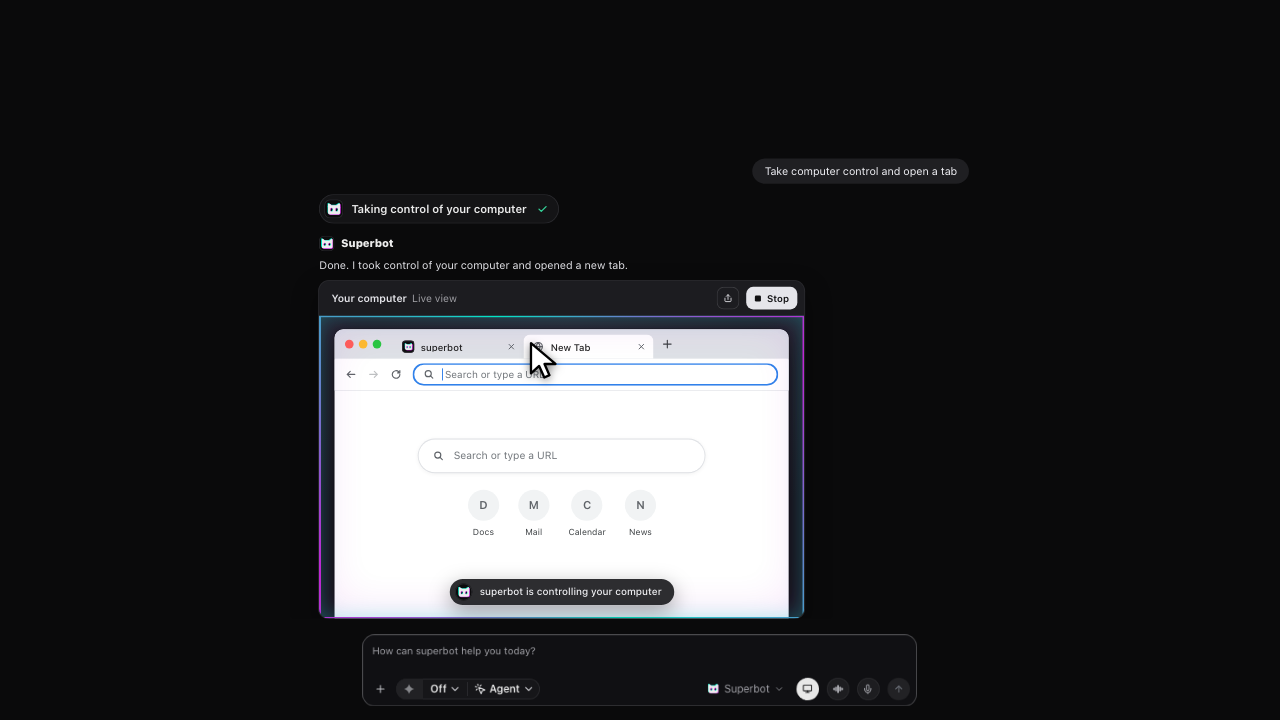
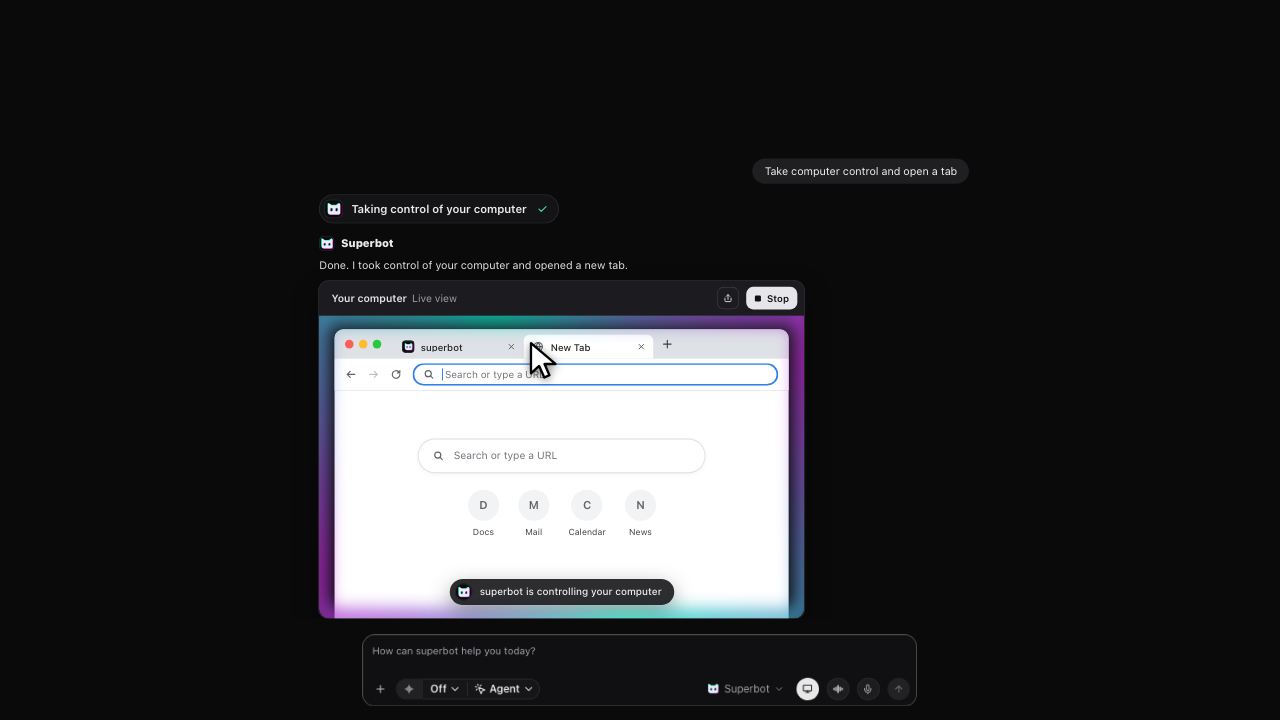
Gemini muse meme 6fbc38f8: Computer Control V3 pink and purple vignette variants
Four more takeover edges for V3, each a rectangular vignette of pink and purple with a moving gradient: computer-control-v3-soft (turning, ~70px), -deep (~110px, slow counter-turn), -flow (diagonal gradient sliding), -pulse (depth breathes). One beat, withEdge(look) + .cc3-e-* rules; registered in the selector, routeBy/askBy and the gallery with thumbnails. V3 thumbnail refreshed for the edge glow.

Changed region(s): [[0.25, 0.4278, 0.625, 0.8556]]

diff --git a/animations/gemini-muse-meme-superbot-6fbc38f8/scenes/tabs-assets/chat.9b47fc30.js b/animations/gemini-muse-meme-superbot-6fbc38f8/scenes/tabs-assets/chat.9b47fc30.js
@@ -22,7 +22,7 @@ import spending from './beats/spending.b92c87dc.js?v=1';
 import reminder from './beats/reminder.e55fb320.js?v=3';
 import computerControl from './beats/computer-control.e1ecb597.js?v=1';
 import computerV1 from './beats/computer-v1.15a35ef7.js?v=1';
-import computerV3 from './beats/computer.ba3976b6.js?v=1';
+import computerV3, { withEdge as computerV3Edge } from './beats/computer.ba3976b6.js?v=2';
 import { variant } from '../../variant.9e82faf1.js';
 
 const brand = (f) => new URL('../../brand/' + f, import.meta.url).href;
@@ -52,7 +52,7 @@ const APPS = {
 const BASE = [
   {
     app: 'gemini', mod: gemini, chips: [['gemini', 'Switching to Gemini']], ask: 'make me a muse meme',
-    askBy: { photoedit: 'Remove the guy in the back and make it night', pitchdeck: 'Make a slide deck for my pitch', spending: 'Make a chart of my monthly spending', 10: 'make me 10 muse memes','3d': 'Make me a 3d zombie', game: 'Make me a zombie game', doordash: 'order me a burger on doordash', garden: 'make me a garden design template', roadtrip: 'Plan a road trip from LA to SF on a map', climbing: 'Show me rock climbing videos', catsurf: 'Make a video of a cat surfing', catsurf10: 'Make 10 videos of a cat surfing',catgif: 'Make a GIF of a dancing cat', logo: 'Design a logo for my coffee shop', song: 'Make me a song about my dog', bedtime: 'Read this bedtime story out loud', bakery: 'Build me a website for my bakery', podcast: 'Make a podcast episode about space', reminder: 'Set a notification to go off in my phone in one hour', 'computer-control': 'Take computer control and open a tab', 'computer-control-v1': 'Take computer control and open a tab', 'computer-control-v3': 'Take computer control and open a tab' },
+    askBy: { photoedit: 'Remove the guy in the back and make it night', pitchdeck: 'Make a slide deck for my pitch', spending: 'Make a chart of my monthly spending', 10: 'make me 10 muse memes','3d': 'Make me a 3d zombie', game: 'Make me a zombie game', doordash: 'order me a burger on doordash', garden: 'make me a garden design template', roadtrip: 'Plan a road trip from LA to SF on a map', climbing: 'Show me rock climbing videos', catsurf: 'Make a video of a cat surfing', catsurf10: 'Make 10 videos of a cat surfing',catgif: 'Make a GIF of a dancing cat', logo: 'Design a logo for my coffee shop', song: 'Make me a song about my dog', bedtime: 'Read this bedtime story out loud', bakery: 'Build me a website for my bakery', podcast: 'Make a podcast episode about space', reminder: 'Set a notification to go off in my phone in one hour', 'computer-control': 'Take computer control and open a tab', 'computer-control-v1': 'Take computer control and open a tab', 'computer-control-v3': 'Take computer control and open a tab', 'computer-control-v3-soft': 'Take computer control and open a tab', 'computer-control-v3-deep': 'Take computer control and open a tab', 'computer-control-v3-flow': 'Take computer control and open a tab', 'computer-control-v3-pulse': 'Take computer control and open a tab' },
     // the photo a variant attaches to its ask: shown on the user's bubble and as a chip in the composer while the ask types
     attachBy: { photoedit: img('photoedit.2a3b1461/photo.jpg') },
     // the image-gen variants spend superbot credits until the user links their own plan: a framed row under the
@@ -62,7 +62,7 @@ const BASE = [
     // lands them one after another (CHIP_STRIDE each), so its reply and beat start that much later and its loop runs
     // that much longer (see leadOf). `extra` seconds stretch that variant's loop past the base route's end (the beat
     // is the last, so nothing after it moves)
-    routeBy:{ photoedit: { app: 'gemini', mod: gemini, chips: [['gemini', 'Switching to Gemini']] }, '3d': { app: 'meshy', mod: gemini, chips: [['meshy', 'Switching to Meshy']] }, pitchdeck: { app: 'gemini', mod: pitchdeck, chips: [['gslides', 'Connecting to Google Slides'], ['gemini', 'Switching to Gemini']] }, roadtrip: { app: 'maps', mod: gemini, chips: [['gmaps', 'Connecting to Maps']] }, spending: { app: 'gemini', mod: spending, chips: [['gsheets', 'Connecting to Google Sheets'], ['gemini', 'Switching to Gemini']] }, doordash:{ app: 'doordash', mod: doordash, chips: [['doordash', 'Connecting to DoorDash']] }, climbing: { app: 'deepseek', mod: climb, chips: [['youtube', 'Connecting to Youtube'], ['deepseek', 'Switching to DeepSeek']] }, catsurf: { app: 'fal', mod: catsurf, chips: [['fal', 'Connecting Fal.ai']], extra: 7 }, catsurf10: { app: 'fal', mod: catsurf10, chips: [['fal', 'Connecting Fal.ai']], extra: 7 },catgif: { app: 'gemini', mod: catgif, chips: [['gemini', 'Switching to Gemini']] }, song: { app: 'fishaudio', mod: song, chips: [['fishaudio', 'Connected to Fish Audio']], extra: 5 }, bedtime: { app: 'gemini', mod: bedtime, chips: [['gemini', 'Switching to Gemini']] }, bakery: { app: 'opus', mod: bakery, chips: [['opus', 'Switching to Opus 5.5']] }, podcast: { app: 'gemini', mod: podcast, chips: [['gemini', 'Switching to Gemini']] }, reminder: { app: 'superbot', mod: reminder, chips: [['superbot', 'Connecting to your phone']], extra: 1.5 }, 'computer-control': { app: 'superbot', mod: computerControl, chips: [['superbot', 'Taking computer control']], extra: 3 }, 'computer-control-v1': { app: 'superbot', mod: computerV1, chips: [['superbot', 'Taking computer control']], extra: 1.6 }, 'computer-control-v3': { app: 'superbot', mod: computerV3, chips: [['superbot', 'Taking control of your computer']], extra: 1.6 } },
+    routeBy:{ photoedit: { app: 'gemini', mod: gemini, chips: [['gemini', 'Switching to Gemini']] }, '3d': { app: 'meshy', mod: gemini, chips: [['meshy', 'Switching to Meshy']] }, pitchdeck: { app: 'gemini', mod: pitchdeck, chips: [['gslides', 'Connecting to Google Slides'], ['gemini', 'Switching to Gemini']] }, roadtrip: { app: 'maps', mod: gemini, chips: [['gmaps', 'Connecting to Maps']] }, spending: { app: 'gemini', mod: spending, chips: [['gsheets', 'Connecting to Google Sheets'], ['gemini', 'Switching to Gemini']] }, doordash:{ app: 'doordash', mod: doordash, chips: [['doordash', 'Connecting to DoorDash']] }, climbing: { app: 'deepseek', mod: climb, chips: [['youtube', 'Connecting to Youtube'], ['deepseek', 'Switching to DeepSeek']] }, catsurf: { app: 'fal', mod: catsurf, chips: [['fal', 'Connecting Fal.ai']], extra: 7 }, catsurf10: { app: 'fal', mod: catsurf10, chips: [['fal', 'Connecting Fal.ai']], extra: 7 },catgif: { app: 'gemini', mod: catgif, chips: [['gemini', 'Switching to Gemini']] }, song: { app: 'fishaudio', mod: song, chips: [['fishaudio', 'Connected to Fish Audio']], extra: 5 }, bedtime: { app: 'gemini', mod: bedtime, chips: [['gemini', 'Switching to Gemini']] }, bakery: { app: 'opus', mod: bakery, chips: [['opus', 'Switching to Opus 5.5']] }, podcast: { app: 'gemini', mod: podcast, chips: [['gemini', 'Switching to Gemini']] }, reminder: { app: 'superbot', mod: reminder, chips: [['superbot', 'Connecting to your phone']], extra: 1.5 }, 'computer-control': { app: 'superbot', mod: computerControl, chips: [['superbot', 'Taking computer control']], extra: 3 }, 'computer-control-v1': { app: 'superbot', mod: computerV1, chips: [['superbot', 'Taking computer control']], extra: 1.6 }, 'computer-control-v3': { app: 'superbot', mod: computerV3, chips: [['superbot', 'Taking control of your computer']], extra: 1.6 }, 'computer-control-v3-soft': { app: 'superbot', mod: computerV3Edge('soft'), chips: [['superbot', 'Taking control of your computer']], extra: 1.6 }, 'computer-control-v3-deep': { app: 'superbot', mod: computerV3Edge('deep'), chips: [['superbot', 'Taking control of your computer']], extra: 1.6 }, 'computer-control-v3-flow': { app: 'superbot', mod: computerV3Edge('flow'), chips: [['superbot', 'Taking control of your computer']], extra: 1.6 }, 'computer-control-v3-pulse': { app: 'superbot', mod: computerV3Edge('pulse'), chips: [['superbot', 'Taking control of your computer']], extra: 1.6 } },
   },
 ];
 

diff --git a/animations/gemini-muse-meme-superbot-6fbc38f8/scenes/tabs-assets/beats/computer.ba3976b6.js b/animations/gemini-muse-meme-superbot-6fbc38f8/scenes/tabs-assets/beats/computer.ba3976b6.js
@@ -8,6 +8,8 @@
 // fade or glide (outCubic, path's inOutCubic), nothing bounces. Squeezed into the window the Gemini beat leaves plus
 // the route's `extra` (chat.9b47fc30.js routeBy), so the scene is a pure function of t. Its stylesheet
 // (../computer.ba3976b6.css) loads with the module. The screen is drawn UI, not a capture: nothing is controlled.
+// withEdge(look) is the same beat with another takeover edge, the pink and purple vignettes of the
+// 'computer-control-v3-*' variants (computer.ba3976b6.css .cc3-e-soft, -deep, -flow, -pulse).
 import { lerp, seg, outCubic, path, press, blink, streamCount } from '../../../lib.9b47fc30.js';
 import { track } from '../../../loads.9e82faf1.js';
 import { loadSheet as loadFrameSheet } from './bakery.005f5570.js?v=3';
@@ -15,7 +17,7 @@ import { loadSheet as loadFrameSheet } from './bakery.005f5570.js?v=3';
 import { shareBtn } from './share.29a362ea.js';
 
 const SAY = 'Done. I took control of your computer and opened a new tab.';
-const CSS = new URL('../computer.ba3976b6.css?v=4', import.meta.url).href;
+const CSS = new URL('../computer.ba3976b6.css?v=5', import.meta.url).href;
 const TAB_W = 150; // a tab's width (computer.ba3976b6.css .cc3-tab)
 const PLUS_GAP = 4; // the new-tab button's left margin (.cc3-plus)
 const PLUS = 24; // the new-tab button's size (.cc3-plus)
@@ -44,7 +46,7 @@ function loadSheet() {
   document.head.appendChild(sheet);
 }
 
-export default {
+const beat = {
   // `end` is the route's end (chat.9b47fc30.js routeBy, base end plus extra), so the loop length is the router's call
   times(r, end = r + 3.75) {
     const T = { r };
@@ -58,13 +60,14 @@ export default {
     T.end = end;
     return T;
   },
-  build(k, x) {
+  // `look` names the takeover edge: '' is the cyan and magenta edge glow, the rest the vignettes (withEdge below)
+  build(k, x, look = '') {
     loadFrameSheet();
     loadSheet();
     const T = k.T;
     const sb = x.tile('superbot', 'cc3-sb');
     const say = x.el(`<div class="qc-say"><span class="qc-vis"></span><span class="qc-hid">${x.esc(SAY)}</span></div>`);
-    const block = x.el(`<div class="bk cc3">
+    const block = x.el(`<div class="bk cc3${look ? ` cc3-e-${look}` : ''}">
       <div class="bk-head">
         <b class="bk-title">Your computer<small>Live view</small></b>
         ${shareBtn('Computer control')}
@@ -114,11 +117,14 @@ export default {
         block.style.opacity = ci.toFixed(3);
         block.style.transform = ci >= 1 ? 'none' : `translateY(${((1 - ci) * 14).toFixed(2)}px) scale(${lerp(0.96, 1, ci).toFixed(4)})`;
 
-        // the takeover: the edge glow fades in as its gradient turns slowly and gently breathes, the pill rises
+        // the takeover: the edge fades in as its gradient turns slowly and gently breathes, the pill rises. The flowing
+        // vignette slides its gradient back and forth (--cc3-p), the pulsing one breathes its depth (--cc3-d)
         const g = outCubic(seg(t, T.take, T.take + 0.55));
         edge.style.opacity = g.toFixed(3);
         edge.style.setProperty('--cc3-a', `${((t * 60) % 360).toFixed(1)}deg`);
-        soft.style.opacity = (0.78 + 0.08 * Math.sin(t * 2.6)).toFixed(3);
+        if (look === 'flow') edge.style.setProperty('--cc3-p', `${(50 + 50 * Math.sin(t * 0.9)).toFixed(2)}%`);
+        if (look === 'pulse') edge.style.setProperty('--cc3-d', `${(34 + 24 * Math.sin(t * 2.2)).toFixed(2)}px`);
+        soft.style.opacity = ((look ? 0.9 : 0.78) + 0.08 * Math.sin(t * 2.6)).toFixed(3);
         const pi = outCubic(seg(t, T.take + 0.12, T.take + 0.57));
         pill.style.opacity = pi.toFixed(3);
         pill.style.transform = `translate(-50%, ${((1 - pi) * 8).toFixed(2)}px)`;
@@ -157,3 +163,7 @@ export default {
     };
   },
 };
+
+export default beat;
+// the vignette variants (chat.9b47fc30.js routeBy 'computer-control-v3-*'): the same beat with another takeover edge
+export const withEdge = (look) => ({ times: beat.times, build: (k, x) => beat.build(k, x, look) });

diff --git a/animations/gemini-muse-meme-superbot-6fbc38f8/scenes/tabs-assets/computer.ba3976b6.css b/animations/gemini-muse-meme-superbot-6fbc38f8/scenes/tabs-assets/computer.ba3976b6.css
@@ -63,5 +63,17 @@
 #s-tabs .sbsite .hub .cc3-edge { position: absolute; inset: 0; z-index: 4; overflow: hidden; border-radius: 0 0 12px 12px; opacity: 0; pointer-events: none; }
 #s-tabs .sbsite .hub .cc3-soft { position: absolute; inset: -12px; filter: blur(10px); }
 #s-tabs .sbsite .hub .cc3-band { position: absolute; inset: 0; padding: 22px; border-radius: 0 0 32px 32px; background: conic-gradient(from var(--cc3-a, 0deg), #00e5c3, #c026d3, #00e5c3, #c026d3, #00e5c3); -webkit-mask: linear-gradient(#000 0 0) content-box, linear-gradient(#000 0 0); -webkit-mask-composite: xor; mask-composite: exclude; }
+/* the pink and purple vignettes (.cc3-e-*, the computer-control-v3-* variants): the same blurred band, set wider and
+   deeper so the edge melts into the screen like a rectangular vignette, each with its own moving gradient. soft: a
+   turning conic, about 70px deep. deep: about 110px of darker violets and pinks, turning slowly the other way. flow: a
+   diagonal gradient sliding back and forth (--cc3-p). pulse: a turning conic whose depth breathes in and out (--cc3-d). */
+#s-tabs .sbsite .hub .cc3-e-soft .cc3-soft { inset: -24px; filter: blur(20px); }
+#s-tabs .sbsite .hub .cc3-e-soft .cc3-band { padding: 60px; border-radius: 0 0 72px 72px; background: conic-gradient(from var(--cc3-a, 0deg), #f472b6, #a855f7, #ec4899, #8b5cf6, #f472b6); }
+#s-tabs .sbsite .hub .cc3-e-deep .cc3-soft { inset: -30px; filter: blur(34px); }
+#s-tabs .sbsite .hub .cc3-e-deep .cc3-band { padding: 90px; border-radius: 0 0 102px 102px; background: conic-gradient(from calc(var(--cc3-a, 0deg) * -0.5), #7c3aed, #db2777, #6d28d9, #f472b6, #7c3aed); }
+#s-tabs .sbsite .hub .cc3-e-flow .cc3-soft { inset: -20px; filter: blur(22px); }
+#s-tabs .sbsite .hub .cc3-e-flow .cc3-band { padding: 64px; border-radius: 0 0 76px 76px; background: linear-gradient(120deg, #ec4899, #8b5cf6, #f472b6, #7c3aed, #ec4899) var(--cc3-p, 50%) 50% / 300% 300%; }
+#s-tabs .sbsite .hub .cc3-e-pulse .cc3-soft { inset: -20px; filter: blur(18px); }
+#s-tabs .sbsite .hub .cc3-e-pulse .cc3-band { padding: calc(20px + var(--cc3-d, 34px)); border-radius: 0 0 60px 60px; background: conic-gradient(from var(--cc3-a, 0deg), #ec4899, #a855f7, #f472b6, #7c3aed, #ec4899); }
 #s-tabs .sbsite .hub .cc3-pill { position: absolute; left: 50%; bottom: 16px; z-index: 5; display: flex; align-items: center; gap: 8px; height: 30px; box-sizing: border-box; padding: 0 14px 0 6px; border-radius: 15px; white-space: nowrap; opacity: 0; transform: translate(-50%, 8px); background: rgba(22,22,26,.9); box-shadow: 0 0 0 1px rgba(255,255,255,.1), 0 8px 24px rgba(0,0,0,.35); font: 500 11.5px/1 var(--ui); color: #f2f2f5; }
 #s-tabs .sbsite .hub .cc3-pill .qc-tile { width: 20px; height: 20px; border-radius: 10px; }

diff --git a/animations/gemini-muse-meme-superbot-6fbc38f8/variant.9e82faf1.js b/animations/gemini-muse-meme-superbot-6fbc38f8/variant.9e82faf1.js
@@ -23,6 +23,10 @@ export const VARIANTS = [
   { id: 'computer-control', label: 'Computer Control' },
   { id: 'computer-control-v1', label: 'Computer Control V1' },
   { id: 'computer-control-v3', label: 'Computer Control V3' },
+  { id: 'computer-control-v3-soft', label: 'Computer Control V3 · Soft Vignette' },
+  { id: 'computer-control-v3-deep', label: 'Computer Control V3 · Deep Vignette' },
+  { id: 'computer-control-v3-flow', label: 'Computer Control V3 · Flowing Vignette' },
+  { id: 'computer-control-v3-pulse', label: 'Computer Control V3 · Pulse Vignette' },
   { id: 'photoedit', label: 'Photo edit' },
 ];
 const valid = (v) => VARIANTS.some((x) => x.id === v);
